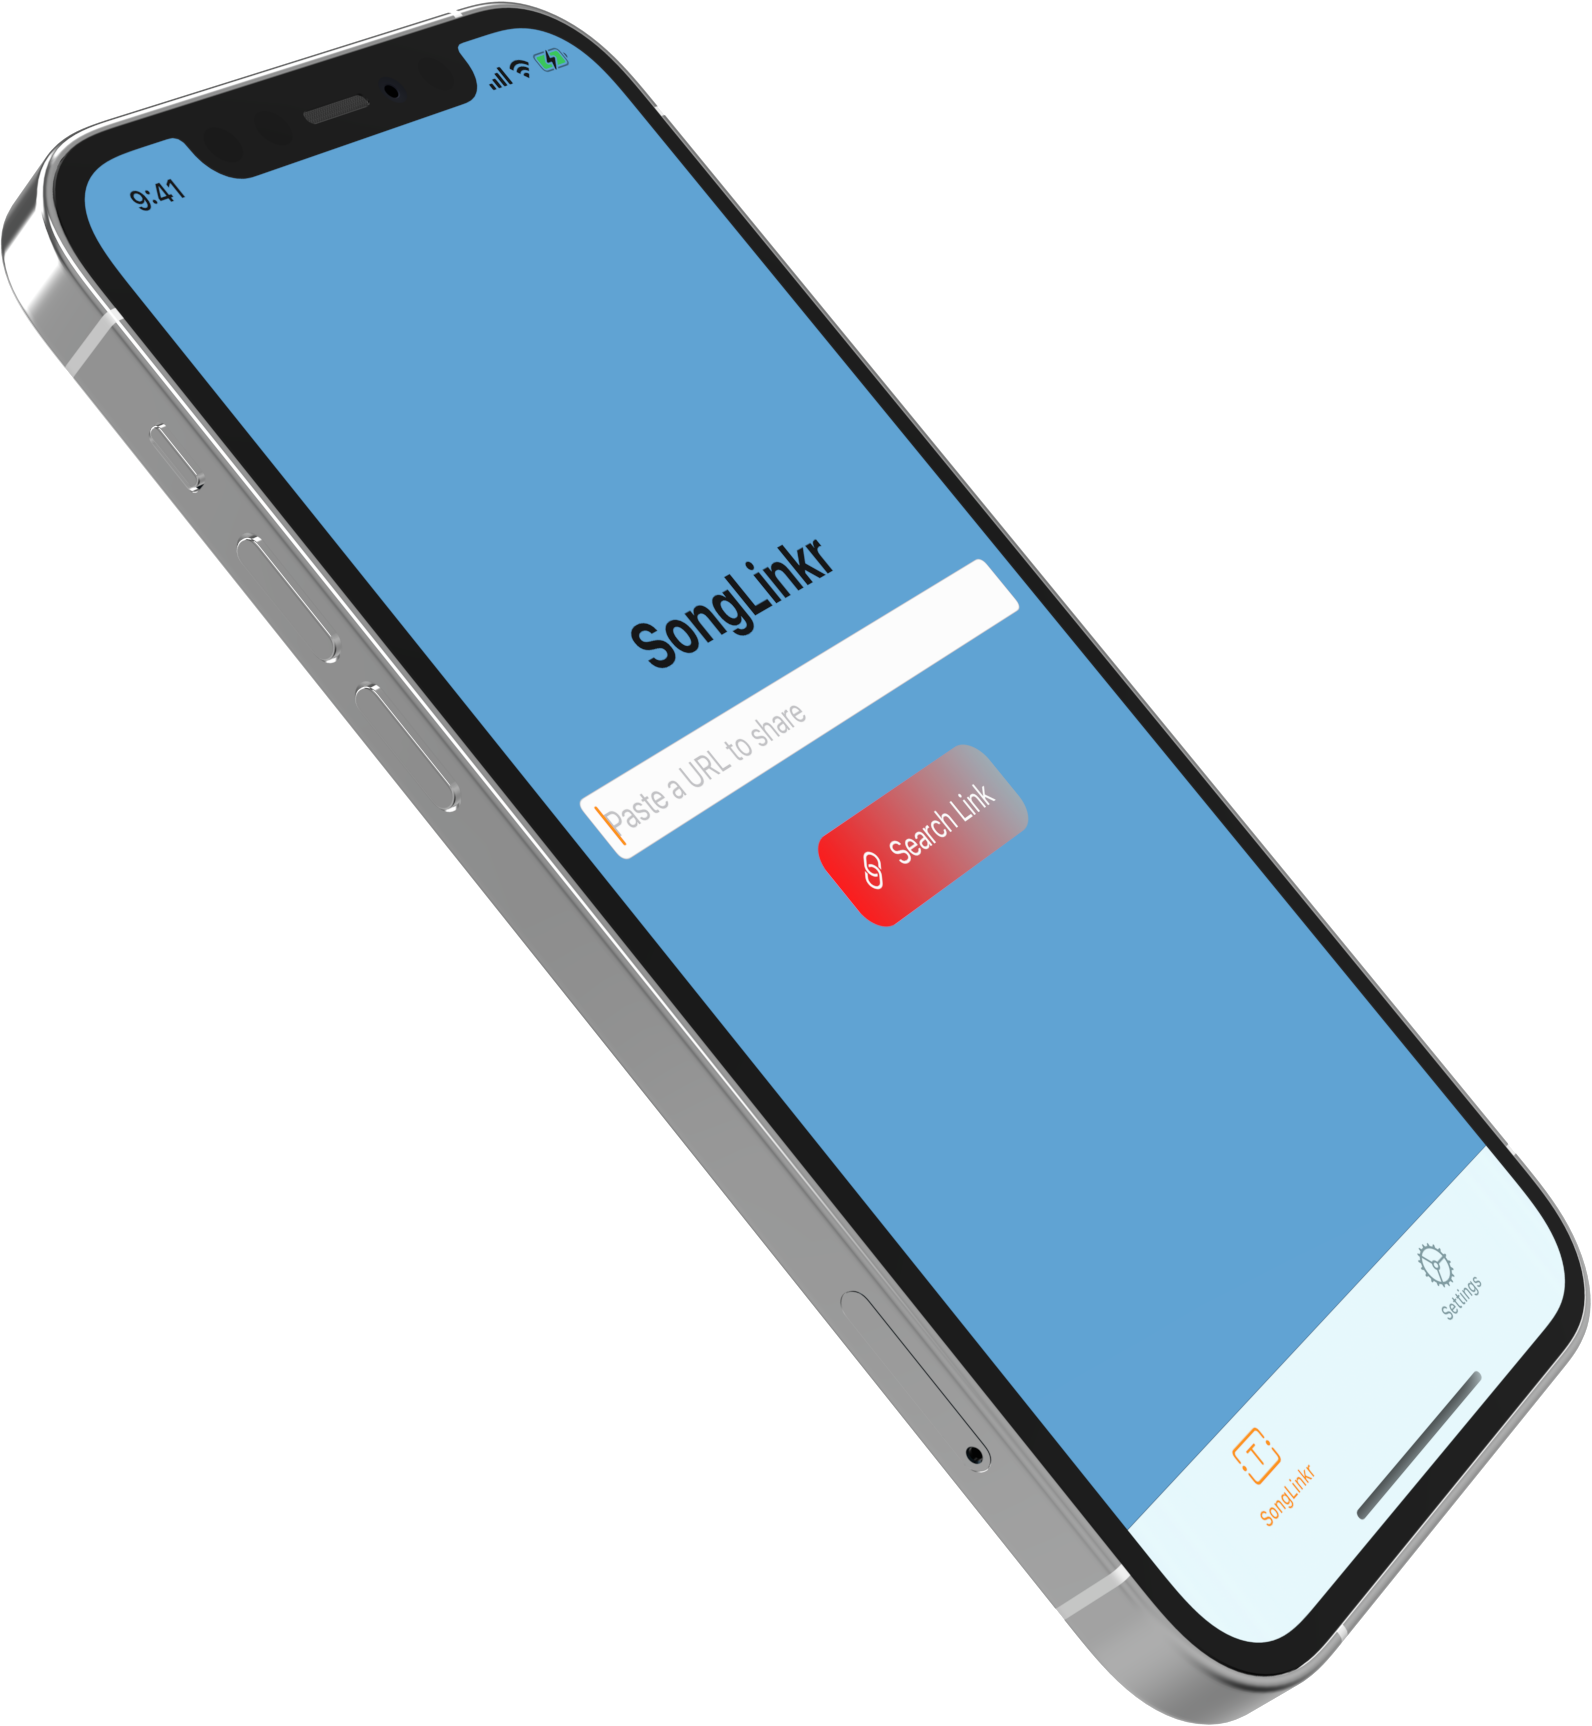
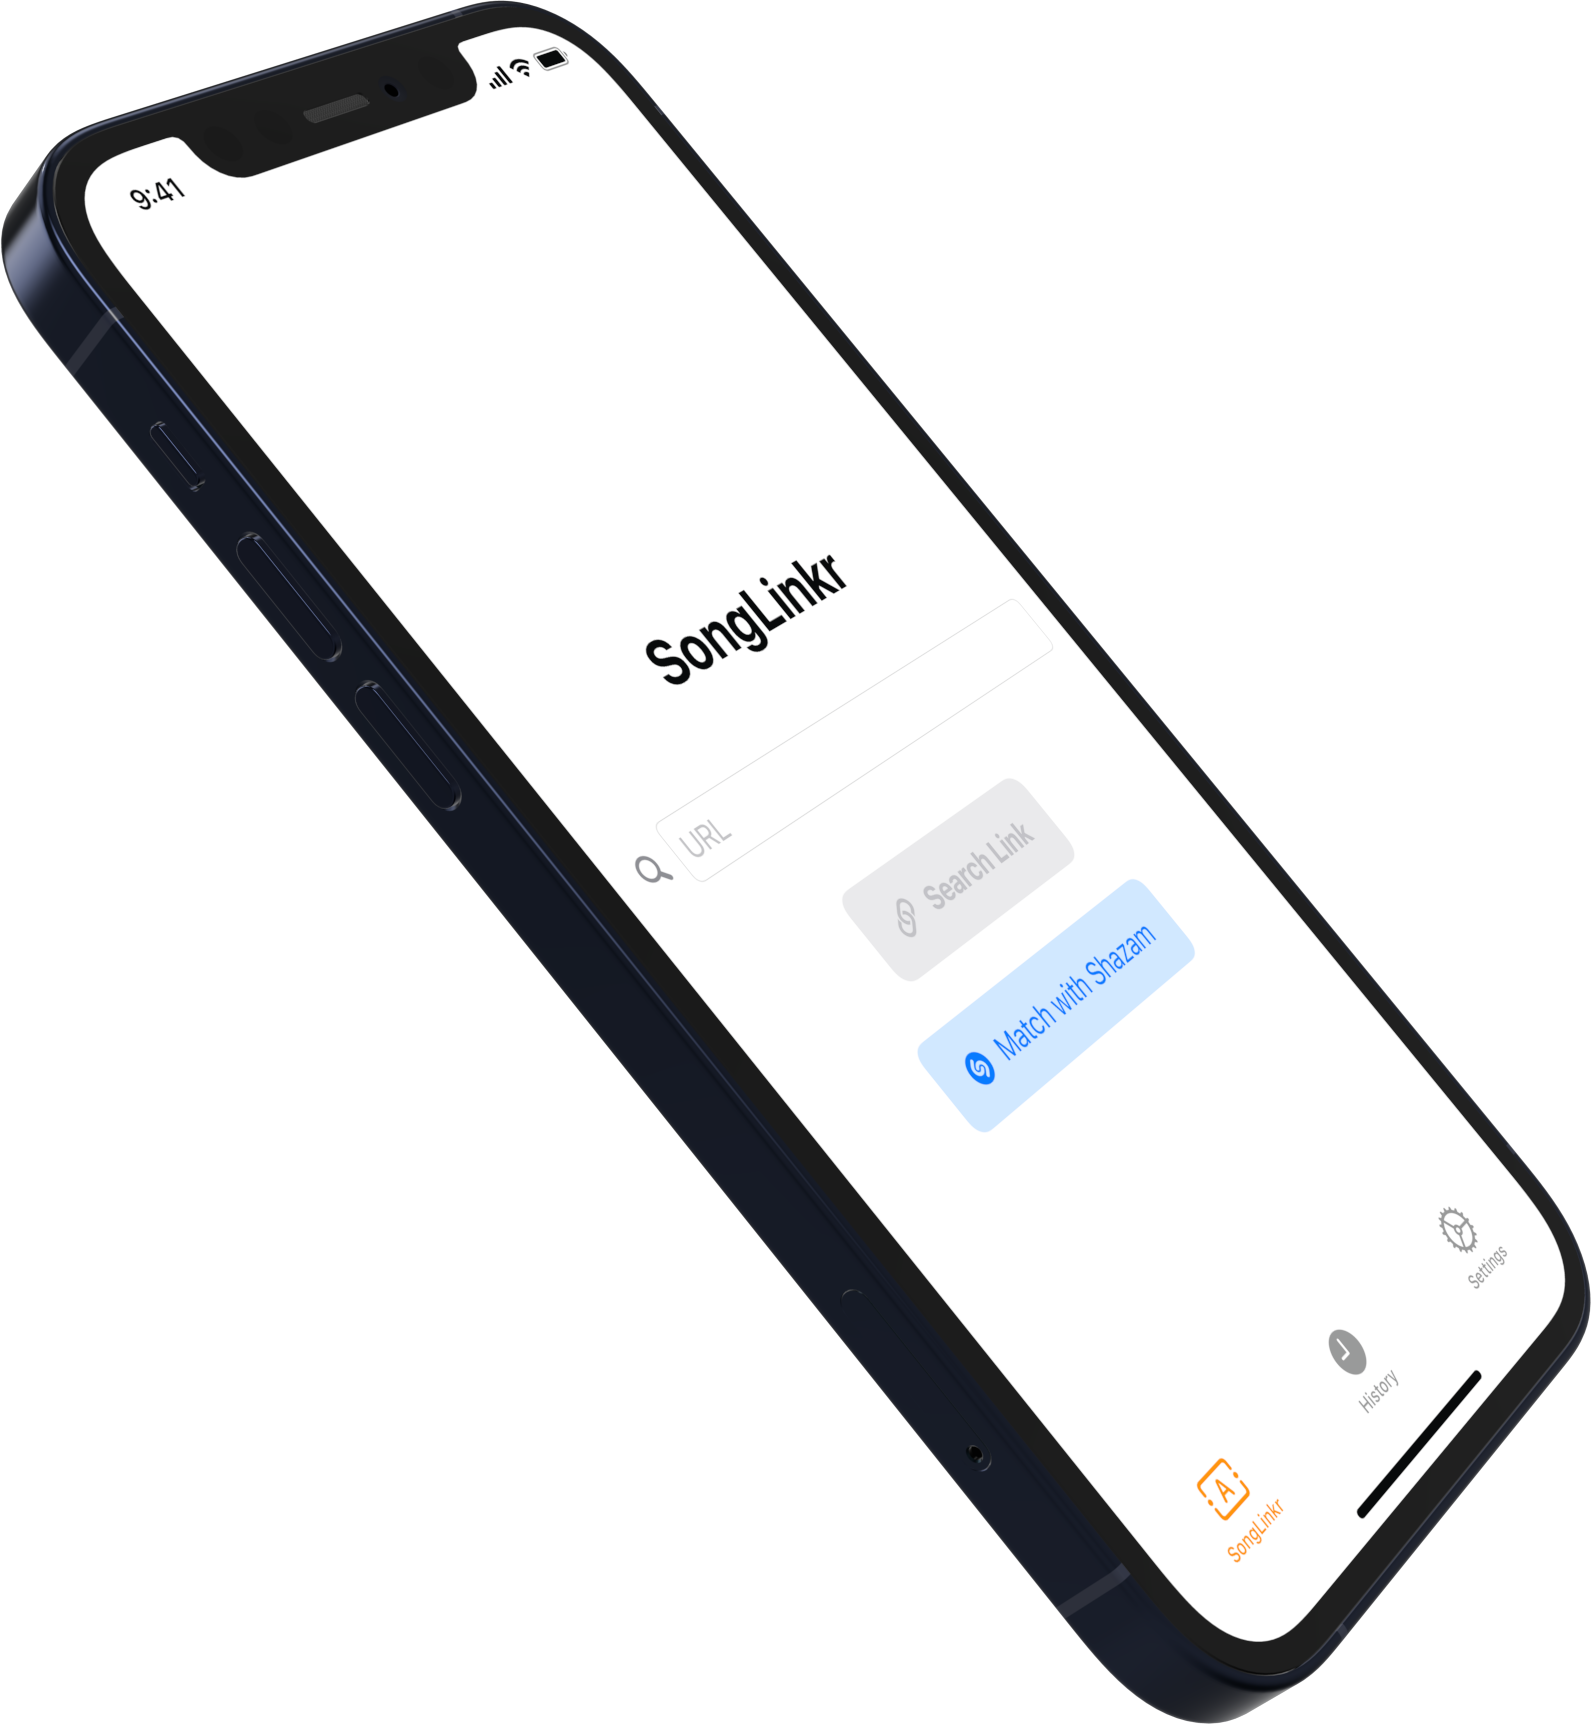
Beginning of 2.0 Update

diff --git a/index.html b/index.html
@@ -103,6 +103,20 @@
         </div>
       </div>
 
+      <div class="feature">
+        <div class="feature-inner wrapper">
+          <div class="feature-info">
+            <h2>Shazam. Built In.</h2>
+            <p>
+              Using Shazam's music recognition technology allows you to find matches to any song you hear playing around you, be it at a shop, in a restaurant or just on the radio. And even better these Shazam results sync to your Shazam app and Control Center and show up in your search history there.
+            </p>
+          </div>
+          <div class="feature-img">
+            <img src="assets/images/ShazamFeatureImageLight.png" alt="An image of an iPhone showing the feature in question." />
+          </div>
+        </div>
+      </div>
+
       <div class="feature-grid wrapper">
         <div class="feature-grid-item">
           <h2>Auto-Paste Links from Clipboard</h2>
@@ -146,6 +160,24 @@
             Type "songlinkr:" infront of any website in your browser and be taken straight to the app with the link pasted ready to search
           </p>
         </div>
+        <div class="feature-grid-item">
+          <h2>Siri Shortcut</h2>
+          <p>
+            Siri Shortcut included to further your own customisation and use in complex shortcut flows.
+          </p>
+        </div>
+        <div class="feature-grid-item">
+          <h2>History Tab</h2>
+          <p>
+            All searches are recorded into your history so you can easily retrieve past results quickly to share with your friends and family.
+          </p>
+        </div>
+        <div class="feature-grid-item">
+          <h2>¡Hola! and Guten Tag</h2>
+          <p>
+            SongLinkr is now translated into Spanish and German! If you spot any issues with translations or want to help write translations for more new languages then get in touch <a href="https://songlinkr.harryday.xyz/translations.html">here.</a>
+          </p>
+        </div>
       </div>
     </section>
 
@@ -169,8 +201,9 @@
     <a href="https://song.link">Song.Link</a>
     <a href="https://twitter.com/realharryday">My Twitter</a>
     <a href="https://github.com/harryday123">My Github</a>
+    <a href="">Press Kit</a>
     <a href="mailto:contact@harryday.xyz">Contact</a>
-    <h4>© 2021 Harry Day</h4>
+    <h4>Copyright © 2021 Harry Day. All rights reserved.</h4>
   </footer>
 </body>
 </html>

diff --git a/scss/main.scss b/scss/main.scss
@@ -55,6 +55,10 @@ p {
   line-height: 1.5;
   // text-align: justify;
   @include mediaQuery.media-breakpoint-up(md) { font-size: 1.125rem }
+
+  sup {
+    color: colors.$linkTextColor
+  }
 }
 
 a {

diff --git a/css/main.css b/css/main.css
@@ -56,6 +56,9 @@ p {
     font-size: 1.125rem;
   }
 }
+p sup {
+  color: #A9A9A9;
+}
 
 a {
   text-decoration: none;
